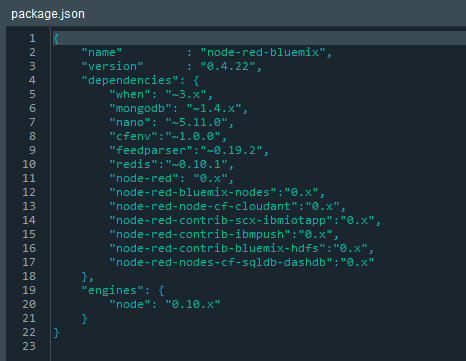
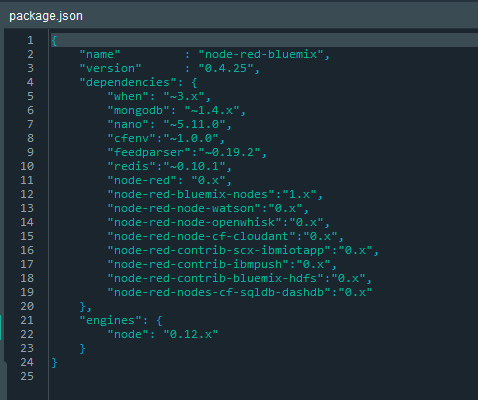
Updated guidance on installing Watson nodes

diff --git a/CONTRIBUTING.md b/CONTRIBUTING.md
@@ -1,4 +1,9 @@
 #Guidelines
+These are guidelines for contributing to this node-red-labs repository. This repository is a collection of examples 
+on how to use Watson nodes in Node-RED. These labs make use of the Watson nodes developed for node-RED and held in 
+a sister repository. If you want to contributte to 
+the [node-red-node-watson](https://github.com/watson-developer-cloud/node-red-node-watson)
+respository please follow the contributing guidelines documented in that repository.  
 
 ## Code
 
@@ -21,88 +26,4 @@ If you want to contribute to the repository, follow these steps:
 2. Develop code changes.
 5. Commit your changes.
 6. Push to your fork and submit a pull request.
-
-# Getting start !
-
-The main steps are :
-* check pre-requisites on your laptop (Linux, Mac)
-* setup your development environment to use Node-RED on localhost
-* coding : modify or create a new node using Node-RED on localhost
-* commit your work and pull-request
-
-Note : this procedure have been tested on OS X Yosemite
-
-## Pre-requisites: 
-
-Install a Node version manager if not already done :
-- Linux/OS X : use [nvm](https://github.com/creationix/nvm)
-Example :
-```
-curl -o- https://raw.githubusercontent.com/creationix/nvm/v0.31.0/install.sh | bash
-```
-Using npm, install Node 4 :
-```
-nvm install 4.0
-```
-- and use it :
-```
-nvm use 4.0
-```
-Notice : npm is provided along with Node.js
-
-## Setup your development environment
-Here are the steps to successfully setup your development environment to contribute to this project
-
-- Fork the main [Node-RED Watson project](https://github.com/watson-developer-cloud/node-red-node-watson) using your GitHub account (ex: @ylecleach)
-- Create a work directory that will contains the source code of your fork
-```
-mkdir ~/dev/src ; cd ~/dev/src
-git clone https://github.com/ylecleach/node-red-node-watson
-```
-**Notice** : replace **ylecleach** by your own GitHub ID
-
-- create a npm link to your forked project. This will also build this project dependencies.
-```
-cd ~/dev/src/node-red-node-watson
-npm link
-```
-
-- Install Node-RED on localhost, assuming we install it on ~/dev directory (you can install it in another location as you wish)
-```
-cd ~/dev
-npm install node-red
-```
-
-- Install your fork project into local Node-RED using npm link:
-```
-cd ~/dev
-npm link node-red-node-watson
-```
-
-- Starting Node-RED on localhost
-```
-cd ~/dev/node_modules/node-red
-npm start
-```
-
-- open Node-RED on [http://localhost:1880](http://localhost:1880) and check you have the Watson nodes properly installed in the Node-RED palette.
-
-Then you can work on your project locally, update or create nodes, and all you have to do is to stop and start your local Node-RED.
-
-## Modify or Create new Watson nodes
-
-If your want to modify an existing Watson nodes, just search the node in the following file under the node-red /  nodes section :
-```
-vi ~/dev/src/node-red-node-watson/package.json
-```
-
-If you want to add a watson node, then you have to create an entry such as :
-```
-"watson-dialog": "services/dialog/v1.js"
-```
-using the same name convention. For example the Watson Dialog Node is composed of these two files :
-- services/dialog/v1.js
-- services/dialog/v1.html
-
-Please refer to those examples and to the [NodeRED.org](http://nodered.org/docs/creating-nodes/) documentation.
 

diff --git a/watson_contribution_nodes/README.md b/watson_contribution_nodes/README.md
@@ -1,9 +1,16 @@
 # Installing Watson Developer Cloud Contribution Nodes 
 
+## Node-RED Bluemix Boilerplate
+We are working with the distributers of the Node-RED boilerplate on Bluemix to incorporate the Watson service nodes from the 
+Watson Developer Cloud. In the meantime follow these instructions to install node-RED nodes that offer a richer set of 
+Watson capabilities.  
+
 ## Overview
-Additional Watson services nodes are available from the Watson Developer Cloud. If you wish to use these nodes
+A more complete set of Watson services nodes are available from the Watson Developer Cloud. If you wish to use these nodes
 you will need to modify Node-RED dependencies. These instructions show how to install these contribution nodes into 
-your Node-RED instance on Bluemix. 
+your Node-RED instance on Bluemix. Alternatively you can deploy from 
+the [node red bluemix starter repository](https://github.com/watson-developer-cloud/node-red-bluemix-starter), which 
+brings in these nodes, along with box and dropbox nodes that the sample flows make use of to feed data into the Watson nodes. 
 
 ## Modify Node-RED Dependencies.
 On the Bluemix console, select your Node-RED application. At the top right you will see an "ADD GIT" button.
@@ -23,18 +30,22 @@ Select the file.
 
 ![Package json file before changes](images/contribution-package-json-file.before.png)
 
-Add a comma separator and a line pointing at the git home for the contribution nodes from Watson Developer Cloud
+Replace the line for node-red-node-watson with a line pointing at the git home for 
+the contribution nodes from Watson Developer Cloud. Add the npm modules for the dropbox and box nodes. 
 
 ![Package json file after changes](images/contribution-package-json-file.after.png)
 
 The change is 
 
 ```
-	"node-red-contrib-watson-developer-cloud-nodes" : "git://github.com/watson-developer-cloud/node-red-nodes.git"
+	 "node-red-node-watson":"https://github.com/watson-developer-cloud/node-red-node-watson.git",
+          
+	 "node-red-node-dropbox":"0.x",
+	 "node-red-node-box":"0.x"	 
+	 
 ```
 
-
-Save your changes
+Remember the comma separators at the end of each line except for the last. Save your changes
 
 ![Package json save changes](images/contribution-package-json-file-save.png)
 
@@ -46,7 +57,7 @@ Wait for Node-RED to restart
 
 ![Node RED application running](images/contribution-running.png)
 
-The contribution nodes will then be available for you to use on the palette.
+The updated nodes will then be available for you to use on the palette.
 
 
 
